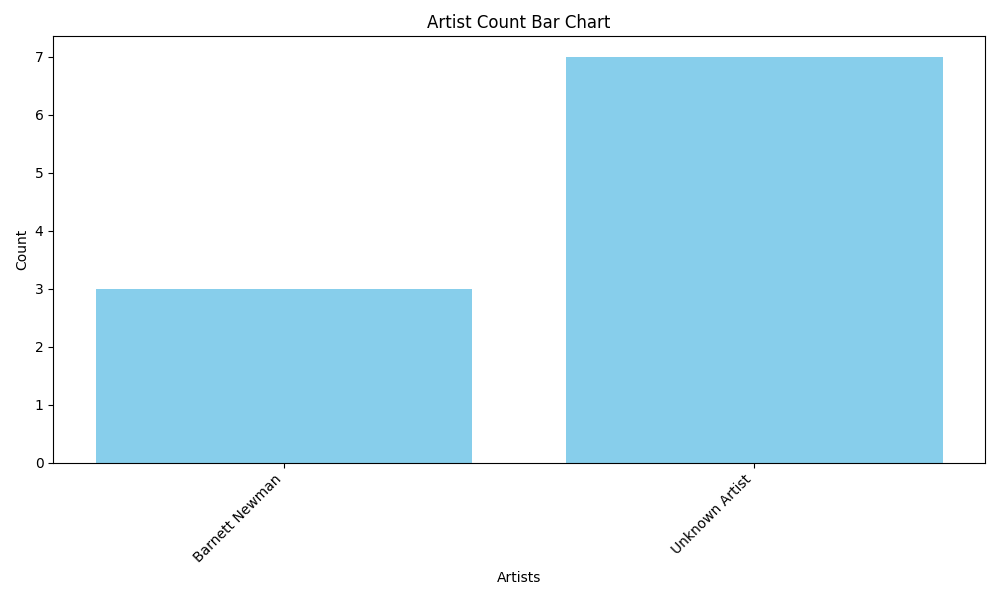
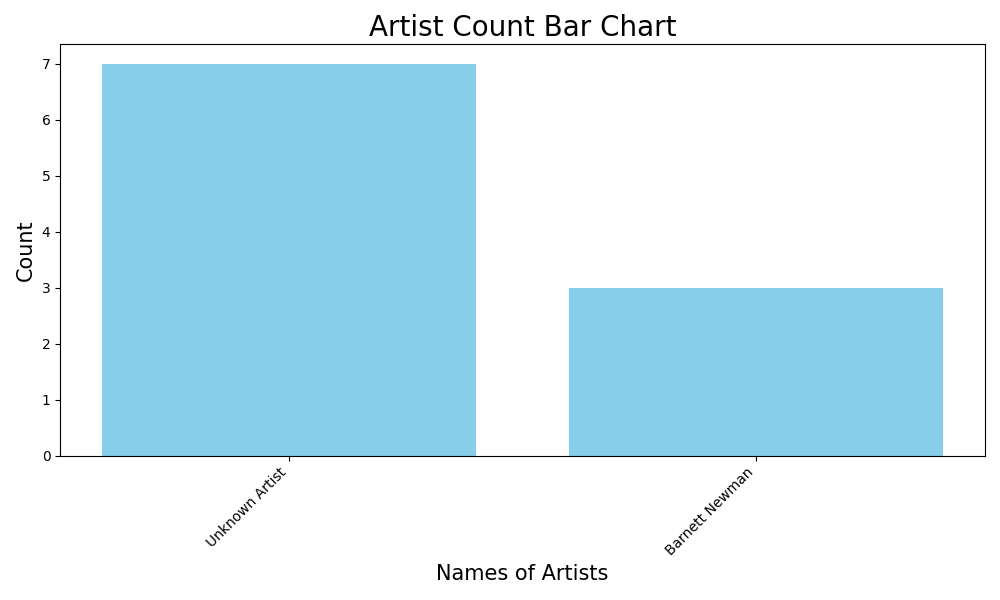
Cleaned labels for pie chart

diff --git a/app.py b/app.py
@@ -7,8 +7,8 @@ import json
 import matplotlib.pyplot as plt
 from reportlab.lib.pagesizes import letter
 from reportlab.pdfgen import canvas
+from reportlab.platypus import SimpleDocTemplate, Paragraph, Image, Spacer, Table, TableStyle, PageBreak
 from reportlab.lib.styles import getSampleStyleSheet, ParagraphStyle
-from reportlab.platypus import SimpleDocTemplate, Paragraph, Image, Spacer
 import io
 
 # Load environment variables from .env file
@@ -37,12 +37,13 @@ def create_charts(data):
         artists.append(artist_name)
 
     # Generate pie chart
-    plt.figure(figsize=(8, 6))
+    plt.figure(figsize=(10, 8))
     title_counts = {title: titles.count(title) for title in set(titles)}
-    labels = list(title_counts.keys())
+    cleaned_labels = [title.strip('[]').strip() for title in title_counts.keys()]
+    labels = cleaned_labels
     counts = list(title_counts.values())
-    plt.pie(counts, labels=labels, autopct='%1.1f%%', startangle=140)
-    plt.title('Pieces of Art with the Same Name')
+    plt.pie(counts, labels=labels, autopct='%1.1f%%', startangle=140, pctdistance=0.85)
+    plt.title('Pieces of Art with the Same Name', fontsize=20)
     pie_chart_path = 'static/pie_chart.png'
     plt.savefig(pie_chart_path)
     plt.close()
@@ -55,9 +56,9 @@ def create_charts(data):
     labels = list(artist_counts.keys())
     counts = list(artist_counts.values())
     plt.bar(labels, counts, color='skyblue')
-    plt.xlabel('Artists')
-    plt.ylabel('Count')
-    plt.title('Artist Count Bar Chart')
+    plt.xlabel('Names of Artists', fontsize=15)
+    plt.ylabel('Count', fontsize=15)
+    plt.title('Artist Count Bar Chart', fontsize=20)
     plt.xticks(rotation=45, ha='right')
     plt.tight_layout()
     bar_chart_path = 'static/bar_chart.png'
@@ -65,15 +66,16 @@ def create_charts(data):
     plt.close()
 
     # Generate line chart
-    plt.figure(figsize=(12, 8))
+    plt.figure(figsize=(10, 8))
     title_counts = {title: titles.count(title) for title in set(titles)}
     labels = list(title_counts.keys())
     counts = list(title_counts.values())
     plt.plot(labels, counts, marker='o', linestyle='-', color='b')
-    plt.xlabel('Names of Pieces')
-    plt.ylabel('Count')
-    plt.title('Pieces with the Same Title')
-    plt.xticks(rotation=45, ha='right')
+    plt.xlabel('Names of Pieces', fontsize=14)  # Adjust font size
+    plt.ylabel('Count', fontsize=14)  # Adjust font size
+    plt.title('Pieces with the Same Title', fontsize=20)  # Adjust font size
+    plt.xticks(rotation=45, ha='right', fontsize=13)  # Adjust font size
+    plt.yticks(fontsize=10)  # Adjust font size
     plt.tight_layout()
     line_chart_path = 'static/line_chart.png'
     plt.savefig(line_chart_path)
@@ -81,106 +83,73 @@ def create_charts(data):
 
     return pie_chart_path, bar_chart_path, line_chart_path
 
-def format_counts(counts):
-    # Define the width for indentation and count columns
-    indent = " " * 4  # Adjust as needed
-    count_width = 4
-    formatted_counts = ""
-
+def format_counts_as_table(counts):
+    data = [['Title', 'Count']]
     for title, count in counts.items():
-        # Strip leading and trailing brackets, and remove any extra whitespace
         clean_title = title.strip('[]').strip()
-        formatted_counts += f"{indent}{count:>{count_width}}: {clean_title}\n"
-    
-    return formatted_counts.strip()
+        data.append([clean_title, count])
 
-def format_conclusion(title_counts, artist_counts):
-    intro_indent = " " * 3
-    conclusion_text = (
-        "Conclusion:\n\n"
-        "Based on the data collected, we can observe the following insights:\n\n"
-        "1. Pie Chart Analysis:\n"
-        f"{intro_indent}- The pie chart illustrates the distribution of pieces with the same title. The following\n"
-        f"{intro_indent}are the counts for each title:\n"
-        f"{intro_indent}{intro_indent}{format_counts(title_counts)}\n"
-        "2. Bar Chart Analysis:\n"
-        f"{intro_indent}- The bar chart shows the number of pieces attributed to each artist. The artist counts\n"
-        f"{intro_indent}are:\n"
-        f"{intro_indent}{intro_indent}{format_counts(artist_counts)}\n"
-        "3. Line Chart Analysis:\n"
-        f"{intro_indent}- The line chart represents the number of pieces with the same title over time. The\n"
-        f"{intro_indent}counts for each title are:\n"
-        f"{intro_indent}{intro_indent}{format_counts(title_counts)}"
-    )
-    return conclusion_text
+    table = Table(data)
+    table.setStyle(TableStyle([
+        ('BACKGROUND', (0, 0), (-1, 0), '#d0d0d0'),
+        ('GRID', (0, 0), (-1, -1), 1, 'black'),
+        ('ALIGN', (1, 1), (-1, -1), 'RIGHT'),
+        ('FONT', (0, 0), (-1, 0), 'Helvetica-Bold'),
+        ('FONT', (0, 1), (-1, -1), 'Helvetica'),
+        ('SIZE', (0, 0), (-1, -1), 10),
+        ('VALIGN', (0, 0), (-1, -1), 'MIDDLE'),
+    ]))
+
+    return table
 
 def create_pdf_report(pie_chart_path, bar_chart_path, line_chart_path, title_counts, artist_counts):
     buffer = io.BytesIO()
-    c = canvas.Canvas(buffer, pagesize=letter)
+    doc = SimpleDocTemplate(buffer, pagesize=letter)
+    elements = []
     width, height = letter
-    margin = 75
+    margin = 50
     chart_height = 400
-    title_space = 20
-    additional_space = 50
-    y_position = height - margin
+    title_space = 20  # Increased space for the chart title
+    chart_space = 20  # Space between title and chart
+    additional_space = 20
 
-    def add_chart(title, image_path, y_position, conclusion_text):
-        total_height = chart_height + title_space + additional_space
-
-        if y_position < total_height + margin:
-            c.showPage()
-            y_position = height - margin
-
-        c.setFont("Helvetica-Bold", 12)
-        c.drawString(margin, y_position, title)
-        c.drawImage(image_path, margin, y_position - chart_height - title_space, width=width - 2 * margin, height=chart_height)
-
-        y_position -= (chart_height + title_space + additional_space)
-
-        # Add conclusion below chart
+    def add_chart(title, image_path, conclusion_text, table_data):
+        elements.append(Paragraph(title, ParagraphStyle(name='Title', fontSize=14, fontName='Helvetica-Bold')))
+        elements.append(Spacer(1, title_space))  # Space for the title
+        elements.append(Image(image_path, width=width - 2 * margin, height=chart_height))
+        elements.append(Spacer(1, chart_space))  # Space between chart and conclusion
+        
         if conclusion_text:
-            c.setFont("Helvetica-Bold", 12)
-            c.drawString(margin, y_position, "Conclusion:")
-            y_position -= 20
+            elements.append(Paragraph("Conclusion:", ParagraphStyle(name='ConclusionTitle', fontSize=12, fontName='Helvetica-Bold')))
+            elements.append(Spacer(1, 10))
+            elements.append(Paragraph(conclusion_text, ParagraphStyle(name='ConclusionText', fontSize=12, fontName='Helvetica')))
+            elements.append(Spacer(1, 10))
 
-            c.setFont("Helvetica", 12)
-            text_object = c.beginText(margin, y_position)
-            text_object.setFont("Helvetica", 12)
-            for line in conclusion_text.split('\n'):
-                # Handle long lines and avoid extra new lines
-                if line.strip():
-                    text_object.textLine(line.strip())
-            c.drawText(text_object)
-            y_position -= len(conclusion_text.split('\n')) * 15  # Adjust spacing based on line count
+        if table_data:
+            elements.append(table_data)
+            elements.append(Spacer(1, additional_space))
+        
+        elements.append(PageBreak())
 
-        return y_position
-
-    # Add Pie Chart
     pie_chart_conclusion = (
-        f"- The pie chart illustrates the distribution of pieces with the same title. The following\n"
-        f"are the counts for each title:\n"
-        f"{format_counts(title_counts)}"
+        f"The pie chart illustrates the distribution of pieces with the same title. The following\n"
+        f"are the counts for each title:"
     )
-    y_position = add_chart("Pie Chart", pie_chart_path, y_position, pie_chart_conclusion)
+    add_chart("Pie Chart", pie_chart_path, pie_chart_conclusion, format_counts_as_table(title_counts))
 
-    # Add Bar Chart
     bar_chart_conclusion = (
-        f"- The bar chart shows the number of pieces attributed to each artist. The artist counts\n"
-        f"are:\n"
-        f"{format_counts(artist_counts)}"
+        f"The bar chart shows the number of pieces attributed to each artist. The artist counts\n"
+        f"are:"
     )
-    y_position = add_chart("Bar Chart", bar_chart_path, y_position, bar_chart_conclusion)
+    add_chart("Bar Chart", bar_chart_path, bar_chart_conclusion, format_counts_as_table(artist_counts))
 
-    # Add Line Chart
     line_chart_conclusion = (
-        f"- The line chart represents the number of pieces with the same title over time. The\n"
-        f"counts for each title are:\n"
-        f"{format_counts(title_counts)}"
+        f"The line chart represents the number of pieces with the same title over time. The\n"
+        f"counts for each title are:"
     )
-    y_position = add_chart("Line Chart", line_chart_path, y_position, line_chart_conclusion)
+    add_chart("Line Chart", line_chart_path, line_chart_conclusion, format_counts_as_table(title_counts))
 
-    # Finalize PDF
-    c.save()
+    doc.build(elements)
     buffer.seek(0)
     return buffer
 
